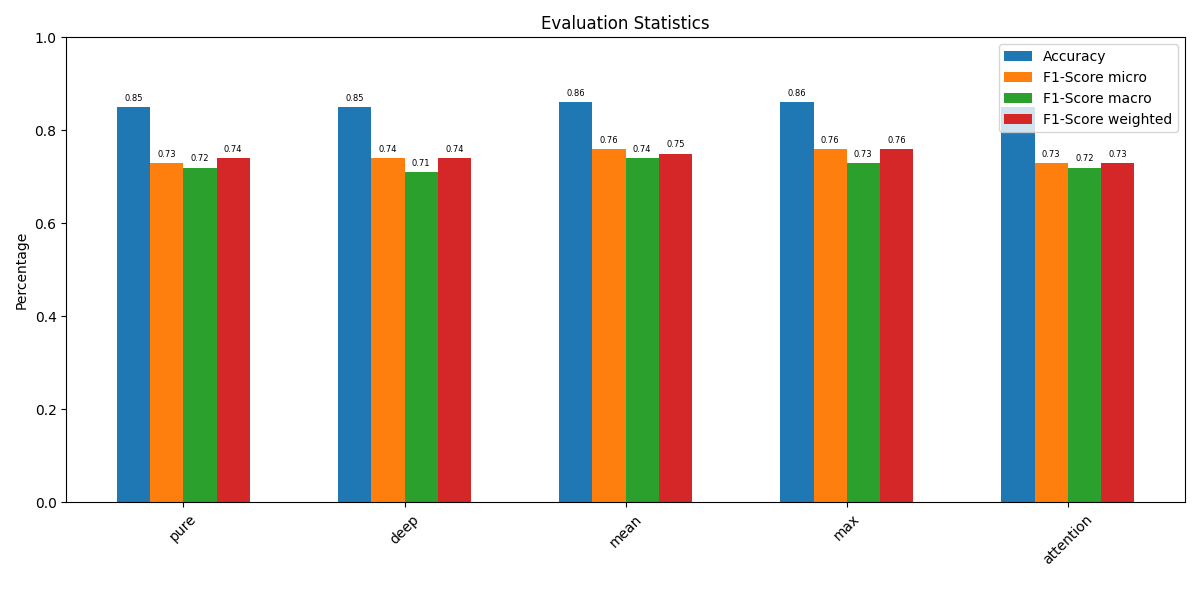
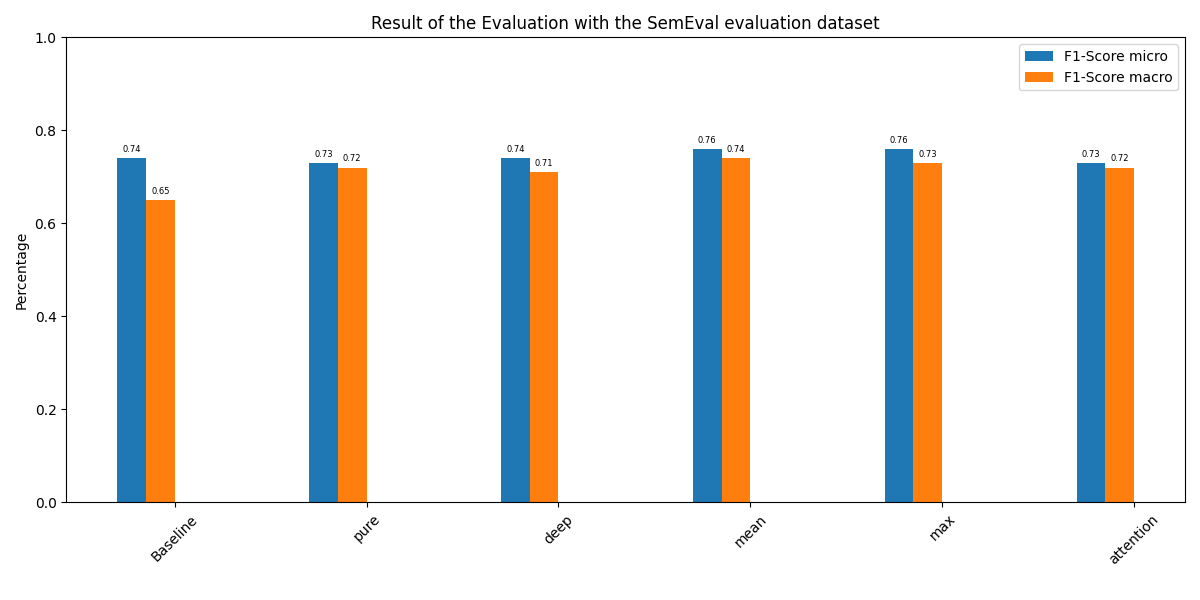
evaluation results analysis

diff --git a/eval_roberta.py b/eval_roberta.py
@@ -366,10 +366,14 @@ def statistics():
     plt.figure()
 
     model_names = [model.name for model in models]
-    accuracies = [model.accuracy for model in models]
+    # accuracies = [model.accuracy for model in models]
     f1_scores_micro = [model.f1_score_micro for model in models]
     f1_scores_macro = [model.f1_score_macro for model in models]
-    f1_scores_weighted = [model.f1_score_weighted for model in models]
+    # f1_scores_weighted = [model.f1_score_weighted for model in models]
+
+    model_names.insert(0, "Baseline")
+    f1_scores_micro.insert(0, 0.74)
+    f1_scores_macro.insert(0, 0.65)
 
     x = np.arange(len(model_names))  # the label locations
     width = 0.15  # the width of the bars
@@ -379,13 +383,13 @@ def statistics():
     # Plot the bars sequentially
     bar_positions = x
 
-    rects3 = ax.bar(bar_positions, accuracies, width, label="Accuracy")
-    bar_positions = [p + width for p in bar_positions]
+    # rects3 = ax.bar(bar_positions, accuracies, width, label="Accuracy")
+    # bar_positions = [p + width for p in bar_positions]
     rects4 = ax.bar(bar_positions, f1_scores_micro, width, label="F1-Score micro")
     bar_positions = [p + width for p in bar_positions]
     rects5 = ax.bar(bar_positions, f1_scores_macro, width, label="F1-Score macro")
-    bar_positions = [p + width for p in bar_positions]
-    rects6 = ax.bar(bar_positions, f1_scores_weighted, width, label="F1-Score weighted")
+    # bar_positions = [p + width for p in bar_positions]
+    # rects6 = ax.bar(bar_positions, f1_scores_weighted, width, label="F1-Score weighted")
 
     # Add some text for labels, title and custom x-axis tick labels, etc.
     ax.set_ylabel("Scores")
@@ -413,17 +417,17 @@ def statistics():
 
     # autolabel(rects1)
     # autolabel(rects2)
-    autolabel(rects3)
+    # autolabel(rects3)
     autolabel(rects4)
     autolabel(rects5)
-    autolabel(rects6)
+    # autolabel(rects6)
 
     # add labels and title
     plt.xticks(rotation=45)
 
     plt.legend()
     plt.ylabel("Percentage")
-    plt.title("Evaluation Statistics")
+    plt.title("Result of the Evaluation with the SemEval evaluation dataset")
     plt.tight_layout(rect=[0.0, 0.03, 1, 1])  # Adjust the bottom margin
     ax.set_ylim(0, 1)
 
